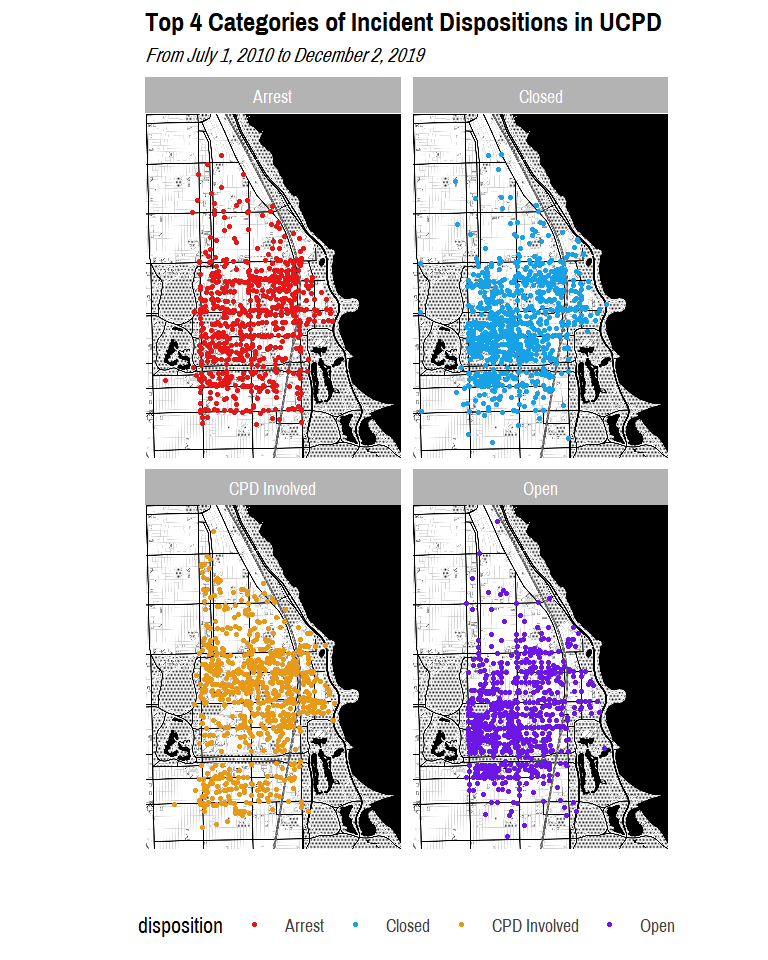
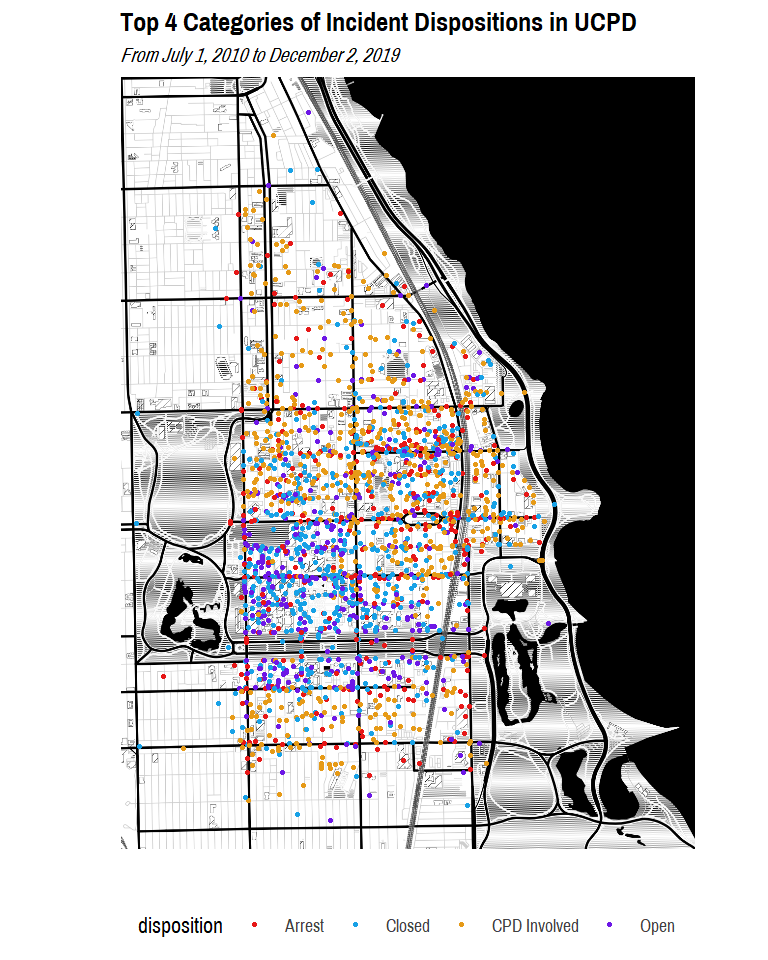
Expanded EDA, adding more density maps, and treemaps of incident category breakdowns

diff --git a/EDA/eda.md b/EDA/eda.md
@@ -69,225 +69,135 @@ incident_desc_stats$POSIXct %>% kable()
 
 ``` r
 chi_map = ggmap(get_stamenmap(c(left = -87.686839, bottom = 41.720873, right = -87.522685, top = 41.895756), maptype = "toner-background", zoom = 13))
-```
 
-    ## Source : http://tile.stamen.com/toner-background/13/2100/3044.png
-
-    ## Source : http://tile.stamen.com/toner-background/13/2101/3044.png
-
-    ## Source : http://tile.stamen.com/toner-background/13/2102/3044.png
-
-    ## Source : http://tile.stamen.com/toner-background/13/2103/3044.png
-
-    ## Source : http://tile.stamen.com/toner-background/13/2104/3044.png
-
-    ## Source : http://tile.stamen.com/toner-background/13/2100/3045.png
-
-    ## Source : http://tile.stamen.com/toner-background/13/2101/3045.png
-
-    ## Source : http://tile.stamen.com/toner-background/13/2102/3045.png
-
-    ## Source : http://tile.stamen.com/toner-background/13/2103/3045.png
-
-    ## Source : http://tile.stamen.com/toner-background/13/2104/3045.png
-
-    ## Source : http://tile.stamen.com/toner-background/13/2100/3046.png
-
-    ## Source : http://tile.stamen.com/toner-background/13/2101/3046.png
-
-    ## Source : http://tile.stamen.com/toner-background/13/2102/3046.png
-
-    ## Source : http://tile.stamen.com/toner-background/13/2103/3046.png
-
-    ## Source : http://tile.stamen.com/toner-background/13/2104/3046.png
-
-    ## Source : http://tile.stamen.com/toner-background/13/2100/3047.png
-
-    ## Source : http://tile.stamen.com/toner-background/13/2101/3047.png
-
-    ## Source : http://tile.stamen.com/toner-background/13/2102/3047.png
-
-    ## Source : http://tile.stamen.com/toner-background/13/2103/3047.png
-
-    ## Source : http://tile.stamen.com/toner-background/13/2104/3047.png
-
-    ## Source : http://tile.stamen.com/toner-background/13/2100/3048.png
-
-    ## Source : http://tile.stamen.com/toner-background/13/2101/3048.png
-
-    ## Source : http://tile.stamen.com/toner-background/13/2102/3048.png
-
-    ## Source : http://tile.stamen.com/toner-background/13/2103/3048.png
-
-    ## Source : http://tile.stamen.com/toner-background/13/2104/3048.png
-
-    ## Source : http://tile.stamen.com/toner-background/13/2100/3049.png
-
-    ## Source : http://tile.stamen.com/toner-background/13/2101/3049.png
-
-    ## Source : http://tile.stamen.com/toner-background/13/2102/3049.png
-
-    ## Source : http://tile.stamen.com/toner-background/13/2103/3049.png
-
-    ## Source : http://tile.stamen.com/toner-background/13/2104/3049.png
-
-``` r
 hyde_park_map = ggmap(get_stamenmap(c(left = -87.617020, bottom = 41.773565, right = -87.566863, top = 41.823864), maptype = "toner-background", zoom = 15))
-```
 
-    ## 42 tiles needed, this may take a while (try a smaller zoom).
-
-    ## Source : http://tile.stamen.com/toner-background/15/8408/12185.png
-
-    ## Source : http://tile.stamen.com/toner-background/15/8409/12185.png
-
-    ## Source : http://tile.stamen.com/toner-background/15/8410/12185.png
-
-    ## Source : http://tile.stamen.com/toner-background/15/8411/12185.png
-
-    ## Source : http://tile.stamen.com/toner-background/15/8412/12185.png
-
-    ## Source : http://tile.stamen.com/toner-background/15/8413/12185.png
-
-    ## Source : http://tile.stamen.com/toner-background/15/8408/12186.png
-
-    ## Source : http://tile.stamen.com/toner-background/15/8409/12186.png
-
-    ## Source : http://tile.stamen.com/toner-background/15/8410/12186.png
-
-    ## Source : http://tile.stamen.com/toner-background/15/8411/12186.png
-
-    ## Source : http://tile.stamen.com/toner-background/15/8412/12186.png
-
-    ## Source : http://tile.stamen.com/toner-background/15/8413/12186.png
-
-    ## Source : http://tile.stamen.com/toner-background/15/8408/12187.png
-
-    ## Source : http://tile.stamen.com/toner-background/15/8409/12187.png
-
-    ## Source : http://tile.stamen.com/toner-background/15/8410/12187.png
-
-    ## Source : http://tile.stamen.com/toner-background/15/8411/12187.png
-
-    ## Source : http://tile.stamen.com/toner-background/15/8412/12187.png
-
-    ## Source : http://tile.stamen.com/toner-background/15/8413/12187.png
-
-    ## Source : http://tile.stamen.com/toner-background/15/8408/12188.png
-
-    ## Source : http://tile.stamen.com/toner-background/15/8409/12188.png
-
-    ## Source : http://tile.stamen.com/toner-background/15/8410/12188.png
-
-    ## Source : http://tile.stamen.com/toner-background/15/8411/12188.png
-
-    ## Source : http://tile.stamen.com/toner-background/15/8412/12188.png
-
-    ## Source : http://tile.stamen.com/toner-background/15/8413/12188.png
-
-    ## Source : http://tile.stamen.com/toner-background/15/8408/12189.png
-
-    ## Source : http://tile.stamen.com/toner-background/15/8409/12189.png
-
-    ## Source : http://tile.stamen.com/toner-background/15/8410/12189.png
-
-    ## Source : http://tile.stamen.com/toner-background/15/8411/12189.png
-
-    ## Source : http://tile.stamen.com/toner-background/15/8412/12189.png
-
-    ## Source : http://tile.stamen.com/toner-background/15/8413/12189.png
-
-    ## Source : http://tile.stamen.com/toner-background/15/8408/12190.png
-
-    ## Source : http://tile.stamen.com/toner-background/15/8409/12190.png
-
-    ## Source : http://tile.stamen.com/toner-background/15/8410/12190.png
-
-    ## Source : http://tile.stamen.com/toner-background/15/8411/12190.png
-
-    ## Source : http://tile.stamen.com/toner-background/15/8412/12190.png
-
-    ## Source : http://tile.stamen.com/toner-background/15/8413/12190.png
-
-    ## Source : http://tile.stamen.com/toner-background/15/8408/12191.png
-
-    ## Source : http://tile.stamen.com/toner-background/15/8409/12191.png
-
-    ## Source : http://tile.stamen.com/toner-background/15/8410/12191.png
-
-    ## Source : http://tile.stamen.com/toner-background/15/8411/12191.png
-
-    ## Source : http://tile.stamen.com/toner-background/15/8412/12191.png
-
-    ## Source : http://tile.stamen.com/toner-background/15/8413/12191.png
-
-``` r
-incident_data_analysis = incident_data  %>% filter(!is.na(incident))  %>% collapse_to_other(9, incident) 
+incident_data_analysis = incident_data  %>% filter(!is.na(incident))  %>% mutate(incident = collapse_to_other(incident, 9))
 
 chi_map + geom_point(data = incident_data_analysis, aes(x = lon, y = lat), color = color_pal(3, "cool")[3], alpha = 0.4) + labs(title = "All Incidents Reported to UCPD", subtitle = "From July 1, 2010 to December 2, 2019") + theme_map(base_family = "Pragati Narrow", base_size = 18)
 ```
 
-    ## Warning: Removed 84 rows containing missing values (geom_point).
-
-![](eda_files/figure-gfm/inc-viz-1.png)<!-- -->
+![](eda_files/figure-gfm/inc-viz-maps-1.png)<!-- -->
 
 ``` r
 chi_map + stat_density2d(data = incident_data, aes(x = lon, y = lat, fill = stat(level)),  geom="polygon", alpha = 0.75) +  scale_fill_gradientn(colors = color_pal(5, "heatmap")) + labs(title = "All Incidents Reported to UCPD", subtitle = "From July 1, 2010 to December 2, 2019") + theme_map(base_family = "Pragati Narrow", base_size = 18)
 ```
 
-    ## Warning: Removed 90 rows containing non-finite values (stat_density2d).
-
-![](eda_files/figure-gfm/inc-viz-2.png)<!-- -->
+![](eda_files/figure-gfm/inc-viz-maps-2.png)<!-- -->
 
 ``` r
 hyde_park_map + stat_density2d(data = incident_data, aes(x = lon, y = lat, fill = stat(level)),  geom="polygon", alpha = 0.75) +  scale_fill_gradientn(colors = color_pal(5, "heatmap")) + labs(title = "All Incidents Reported to UCPD", subtitle = "From July 1, 2010 to December 2, 2019") + theme_map(base_family = "Pragati Narrow", base_size = 18)
 ```
 
-    ## Warning: Removed 322 rows containing non-finite values (stat_density2d).
-
-![](eda_files/figure-gfm/inc-viz-3.png)<!-- -->
+![](eda_files/figure-gfm/inc-viz-maps-3.png)<!-- -->
 
 ``` r
 hyde_park_map + geom_point(data = incident_data_analysis, aes(x = lon, y = lat, color = incident)) + scale_color_manual(values = color_pal(9, "discrete")) + labs(title = "Top 9 Categories of Incidents Reported to UCPD", subtitle = "From July 1, 2010 to December 2, 2019") + theme_map(base_family = "Pragati Narrow", base_size = 18) 
 ```
 
-    ## Warning: Removed 287 rows containing missing values (geom_point).
-
-![](eda_files/figure-gfm/inc-viz-4.png)<!-- -->
+![](eda_files/figure-gfm/inc-viz-maps-4.png)<!-- -->
 
 ``` r
 hyde_park_map + geom_point(data = incident_data_analysis, aes(x = lon, y = lat, color = incident)) + scale_color_manual(values = color_pal(9, "discrete")) + facet_wrap(~ incident) + labs(title = "Top 9 Categories of Incidents Reported to UCPD", subtitle = "From July 1, 2010 to December 2, 2019") + theme_map(base_family = "Pragati Narrow", base_size = 18)
 ```
 
-    ## Warning: Removed 287 rows containing missing values (geom_point).
+![](eda_files/figure-gfm/inc-viz-maps-5.png)<!-- -->
 
-![](eda_files/figure-gfm/inc-viz-5.png)<!-- -->
+``` r
+hyde_park_map + stat_density2d(data = incident_data_analysis, aes(x = lon, y = lat, fill = stat(level)),  geom="polygon", alpha = 0.75) +  scale_fill_gradientn(colors = color_pal(5, "heatmap")) + facet_wrap(~ incident) + labs(title = "Top 9 Categories of Incidents Reported to UCPD", subtitle = "From July 1, 2010 to December 2, 2019") + theme_map(base_family = "Pragati Narrow", base_size = 18)
+```
+
+![](eda_files/figure-gfm/inc-viz-maps-6.png)<!-- -->
 
 ``` r
 hyde_park_map + geom_point(data = incident_data_analysis %>% filter(disposition %in% c("Arrest", "Closed", "CPD Involved", "Open")), aes(x = lon, y = lat, color = disposition)) + scale_color_manual(values = color_pal(4, "discrete")) + labs(title = "Top 4 Categories of Incident Dispositions in UCPD", subtitle = "From July 1, 2010 to December 2, 2019") + theme_map(base_family = "Pragati Narrow", base_size = 18)
 ```
 
-    ## Warning: Removed 272 rows containing missing values (geom_point).
-
-![](eda_files/figure-gfm/inc-viz-6.png)<!-- -->
+![](eda_files/figure-gfm/inc-viz-maps-7.png)<!-- -->
 
 ``` r
 hyde_park_map + geom_point(data = incident_data_analysis %>% filter(disposition %in% c("Arrest", "Closed", "CPD Involved", "Open")), aes(x = lon, y = lat, color = disposition)) + scale_color_manual(values = color_pal(4, "discrete")) + facet_wrap(~ disposition) + labs(title = "Top 4 Categories of Incident Dispositions in UCPD", subtitle = "From July 1, 2010 to December 2, 2019") + theme_map(base_family = "Pragati Narrow", base_size = 18)
 ```
 
-    ## Warning: Removed 272 rows containing missing values (geom_point).
+![](eda_files/figure-gfm/inc-viz-maps-8.png)<!-- -->
 
-![](eda_files/figure-gfm/inc-viz-7.png)<!-- -->
+``` r
+hyde_park_map + stat_density2d(data = incident_data_analysis %>% filter(disposition %in% c("Arrest", "Closed", "CPD Involved", "Open")), aes(x = lon, y = lat, fill = stat(level)),  geom="polygon", alpha = 0.75) + scale_fill_gradientn(colors = color_pal(5, "heatmap")) + facet_wrap(~ disposition) + labs(title = "Top 4 Categories of Incident Dispositions in UCPD", subtitle = "From July 1, 2010 to December 2, 2019") + theme_map(base_family = "Pragati Narrow", base_size = 18)
+```
+
+![](eda_files/figure-gfm/inc-viz-maps-9.png)<!-- -->
+
+``` r
+incident_data %>% filter(!is.na(incident)) %>% count(incident, sort = TRUE) %>%  ggplot(aes(area = n, fill = incident, label = incident)) + geom_treemap() + geom_treemap_text(grow = TRUE, reflow = TRUE, color = "white", family = "Pragati Narrow") + scale_fill_manual(values = color_pal(5, type = "continuous", levels = length(unique(incident_data$incident)))) + labs(title = "Categories of Incidents in UCPD Reports", subtitle = "From July 1, 2010 to December 2, 2019") + theme_day(base_family = "Pragati Narrow", base_size = 18) + hide_legend 
+```
+
+![](eda_files/figure-gfm/inc-viz-other-1.png)<!-- -->
 
 ## CPD
 
 ``` r
-cpd_crime_data = readRDS(here("Data", "cleaned_crime_data.rds"))
+cpd_crime_data = readRDS(here("Data", "cleaned_crime_data.rds")) %>% mutate(primary_type = factor(primary_type), location_description = factor(location_description))
 ```
 
 ### Crime Reports
 
 #### Descriptive Statistics
+
+``` r
+cpd_stats = cpd_crime_data %>% skim() %>% partition()
+
+cpd_stats$character %>% kable()
+```
+
+| skim\_variable | n\_missing | complete\_rate | min | max | empty | n\_unique | whitespace |
+| :------------- | ---------: | -------------: | --: | --: | ----: | --------: | ---------: |
+| id             |          0 |              1 |   5 |   8 |     0 |    811693 |          0 |
+| case\_number   |          0 |              1 |   6 |   9 |     0 |    811604 |          0 |
+| block          |          0 |              1 |  14 |  35 |     0 |      7030 |          0 |
+| iucr           |          0 |              1 |   4 |   4 |     0 |       355 |          0 |
+| description    |          0 |              1 |   5 |  59 |     0 |       332 |          0 |
+
+``` r
+cpd_stats$factor %>% kable()
+```
+
+| skim\_variable        | n\_missing | complete\_rate | ordered | n\_unique | top\_counts                                        |
+| :-------------------- | ---------: | -------------: | :------ | --------: | :------------------------------------------------- |
+| primary\_type         |          0 |      1.0000000 | FALSE   |        33 | BAT: 174284, THE: 141338, CRI: 88211, NAR: 68556   |
+| location\_description |        686 |      0.9991549 | FALSE   |       137 | STR: 189036, APA: 145673, RES: 145009, SID: 84582  |
+| beat                  |          0 |      1.0000000 | FALSE   |        97 | 042: 23530, 062: 20890, 041: 18822, 062: 18718     |
+| district              |          0 |      1.0000000 | FALSE   |        14 | 007: 167016, 006: 158291, 003: 146384, 002: 124061 |
+| ward                  |          0 |      1.0000000 | FALSE   |        20 | 17: 92978, 20: 91596, 6: 88812, 3: 71781           |
+| community\_area       |        104 |      0.9998719 | FALSE   |        30 | 43: 97775, 67: 82343, 71: 81401, 68: 74563         |
+| fbi\_code             |          0 |      1.0000000 | FALSE   |        26 | 08B: 145990, 06: 141338, 14: 88211, 26: 79003      |
+
+``` r
+cpd_stats$logical %>% kable()
+```
+
+| skim\_variable | n\_missing | complete\_rate |      mean | count                    |
+| :------------- | ---------: | -------------: | --------: | :----------------------- |
+| arrest         |          0 |              1 | 0.2558960 | FAL: 603984, TRU: 207709 |
+| domestic       |          0 |              1 | 0.1976326 | FAL: 651276, TRU: 160417 |
+
+``` r
+cpd_stats$numeric %>% kable()
+```
+
+| skim\_variable | n\_missing | complete\_rate |       mean |        sd |         p0 |        p25 |        p50 |        p75 |       p100 | hist  |
+| :------------- | ---------: | -------------: | ---------: | --------: | ---------: | ---------: | ---------: | ---------: | ---------: | :---- |
+| year           |          0 |              1 | 2014.03128 | 2.8849086 | 2010.00000 | 2011.00000 | 2014.00000 | 2017.00000 | 2019.00000 | ▇▇▆▆▅ |
+| latitude       |          0 |              1 |   41.77555 | 0.0276700 |   41.73299 |   41.75269 |   41.77002 |   41.79451 |   41.84588 | ▇▇▅▃▂ |
+| longitude      |          0 |              1 | \-87.62165 | 0.0343565 | \-87.67754 | \-87.65093 | \-87.62253 | \-87.59936 | \-87.54017 | ▇▇▇▅▃ |
+
+``` r
+cpd_stats$POSIXct %>% kable()
+```
+
+| skim\_variable | n\_missing | complete\_rate | min                 | max                 | median              | n\_unique |
+| :------------- | ---------: | -------------: | :------------------ | :------------------ | :------------------ | --------: |
+| date           |         35 |      0.9999569 | 2010-01-01 06:00:00 | 2019-11-30 05:32:00 | 2014-04-10 22:32:30 |    512882 |
+| updated\_on    |          0 |      1.0000000 | 2015-08-17 20:03:40 | 2019-12-06 21:54:36 | 2018-02-10 21:50:01 |      1560 |
 
 #### Visualizations
 
@@ -302,3 +212,25 @@ chi_map + stat_density2d(data = cpd_crime_data, aes(x = longitude, y = latitude,
 ```
 
 ![](eda_files/figure-gfm/crime-viz-2.png)<!-- -->
+
+``` r
+hyde_park_map + stat_density2d(data = cpd_crime_data, aes(x = longitude, y = latitude, fill = stat(level)),  geom="polygon", alpha = 0.75) +  scale_fill_gradientn(colors = color_pal(5, "heatmap")) + labs(title = "All Crimes Reported to CPD", subtitle = "From January 1, 2010 to December 2, 2019, surrounding Hyde Park") + theme_map(base_family = "Pragati Narrow", base_size = 18)
+```
+
+    ## Warning: Removed 705228 rows containing non-finite values (stat_density2d).
+
+![](eda_files/figure-gfm/crime-viz-3.png)<!-- -->
+
+``` r
+hyde_park_map + stat_density2d(data = mutate(cpd_crime_data, primary_type = collapse_to_other(primary_type, 9) %>% str_to_lower()), aes(x = longitude, y = latitude, fill = stat(level)),  geom="polygon", alpha = 0.75) +  scale_fill_gradientn(colors = color_pal(5, "heatmap")) + facet_wrap(~ primary_type) + labs(title = "Top 9 Categories of Incidents Reported to CPD", subtitle = "From January 1, 2010 to December 2, 2019") + theme_map(base_family = "Pragati Narrow", base_size = 18)
+```
+
+    ## Warning: Removed 705228 rows containing non-finite values (stat_density2d).
+
+![](eda_files/figure-gfm/crime-viz-4.png)<!-- -->
+
+``` r
+cpd_crime_data %>% filter(!is.na(primary_type)) %>% count(primary_type, sort = TRUE) %>%  ggplot(aes(area = n, fill = primary_type, label = str_to_lower(primary_type))) + geom_treemap() + geom_treemap_text(grow = TRUE, reflow = TRUE, color = "white", family = "Pragati Narrow") + scale_fill_manual(values = color_pal(5, type = "continuous", levels = length(unique(cpd_crime_data$primary_type)))) + labs(title = "Categories of Incidents in CPD Reports", subtitle = "From January 1, 2010 to December 2, 2019") + theme_day(base_family = "Pragati Narrow", base_size = 18) + hide_legend 
+```
+
+![](eda_files/figure-gfm/crime-viz-other-1.png)<!-- -->
